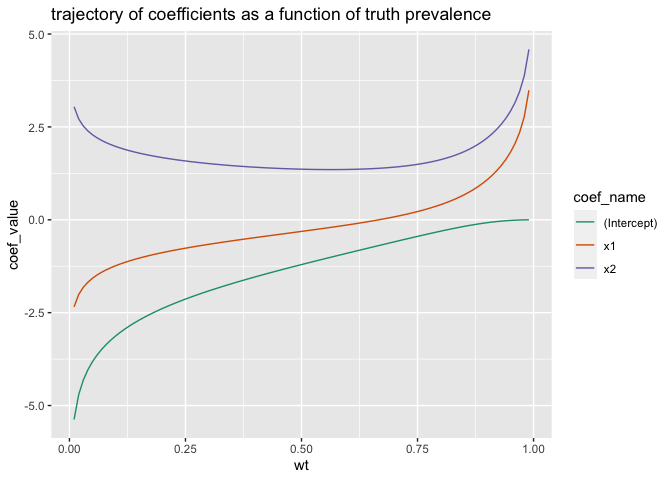
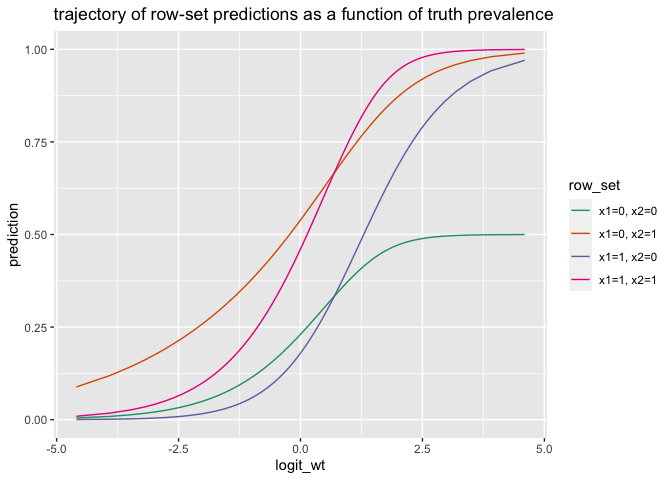
logit plots

diff --git a/rebalance/rw_example_R.md b/rebalance/rw_example_R.md
@@ -1,7 +1,7 @@
 A Simple Example Where re-Weighting Data is Not Monotone
 ================
 John Mount, Nina Zumel; <https://www.win-vector.com>
-Mon Sep 7 09:19:14 2020
+Mon Sep 7 09:31:00 2020
 
 ## Introduction
 
@@ -582,6 +582,8 @@ Here we look at the trajectories of coefficients and predictions as a
 function of data re-weighting.
 
 ``` r
+logit <- function(x) log(x/(1-x))
+
 dt <- data.frame(
   x1 = c(0, 0, 1, 1), 
   x2 = c(0, 1, 0, 1))
@@ -626,6 +628,26 @@ ggplot(data = evalsp, mapping = aes(x = wt, y = link, color = row_set)) +
 ![](rw_example_R_files/figure-gfm/unnamed-chunk-34-2.png)<!-- -->
 
 ``` r
+evalsp$logit_wt <- logit(evalsp$wt)
+
+ggplot(data = evalsp, mapping = aes(x = logit_wt, y = prediction, color = row_set)) +
+  geom_line() +
+  ggtitle("trajectory of row-set predictions as a function of truth prevalence") +
+  scale_color_brewer(palette = "Dark2")
+```
+
+![](rw_example_R_files/figure-gfm/unnamed-chunk-34-3.png)<!-- -->
+
+``` r
+ggplot(data = evalsp, mapping = aes(x = logit_wt, y = link, color = row_set)) +
+  geom_line() +
+  ggtitle("trajectory of row-set link as a function of truth prevalence") +
+  scale_color_brewer(palette = "Dark2")
+```
+
+![](rw_example_R_files/figure-gfm/unnamed-chunk-34-4.png)<!-- -->
+
+``` r
 evalsc <- lapply(
   wseq,
   function(wi) {
@@ -650,4 +672,15 @@ ggplot(data = evalsc, mapping = aes(x = wt, y = coef_value, color = coef_name)) 
   scale_color_brewer(palette = "Dark2")
 ```
 
-![](rw_example_R_files/figure-gfm/unnamed-chunk-34-3.png)<!-- -->
+![](rw_example_R_files/figure-gfm/unnamed-chunk-34-5.png)<!-- -->
+
+``` r
+evalsc$logit_wt <- logit(evalsc$wt)
+
+ggplot(data = evalsc, mapping = aes(x = logit_wt, y = coef_value, color = coef_name)) +
+  geom_line() +
+  ggtitle("trajectory of coefficients as a function of truth prevalence") +
+  scale_color_brewer(palette = "Dark2")
+```
+
+![](rw_example_R_files/figure-gfm/unnamed-chunk-34-6.png)<!-- -->
